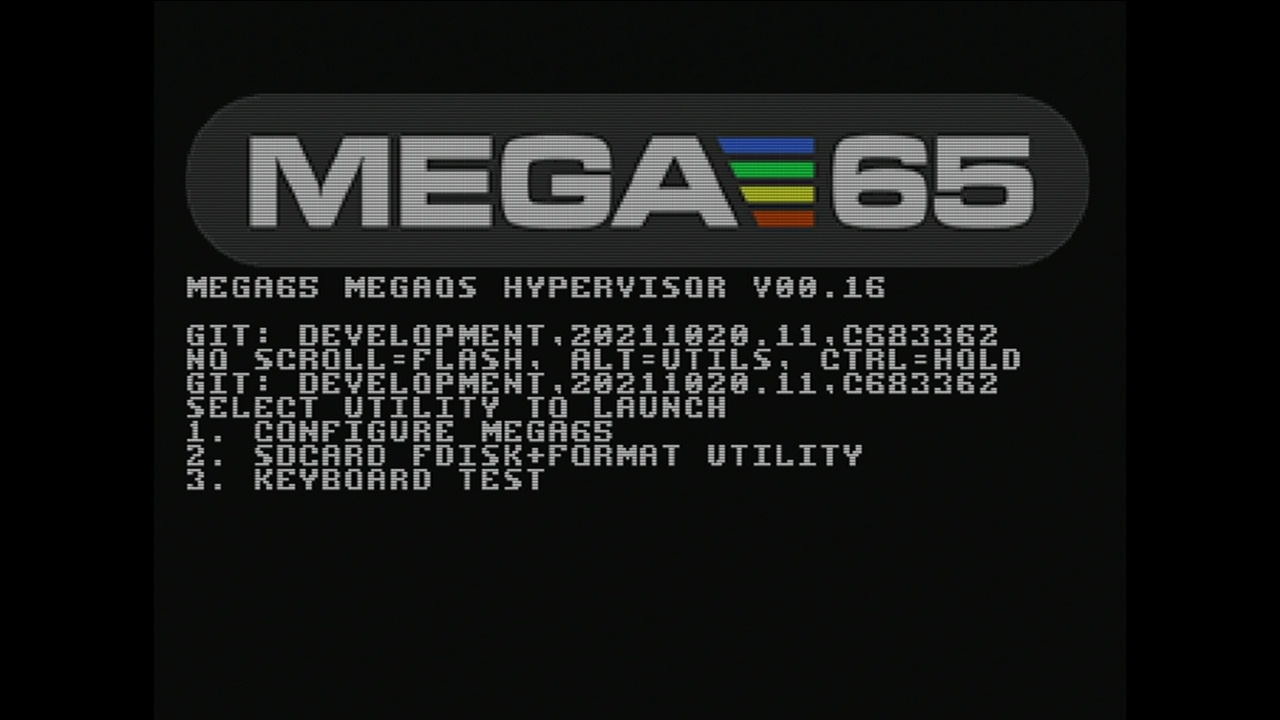
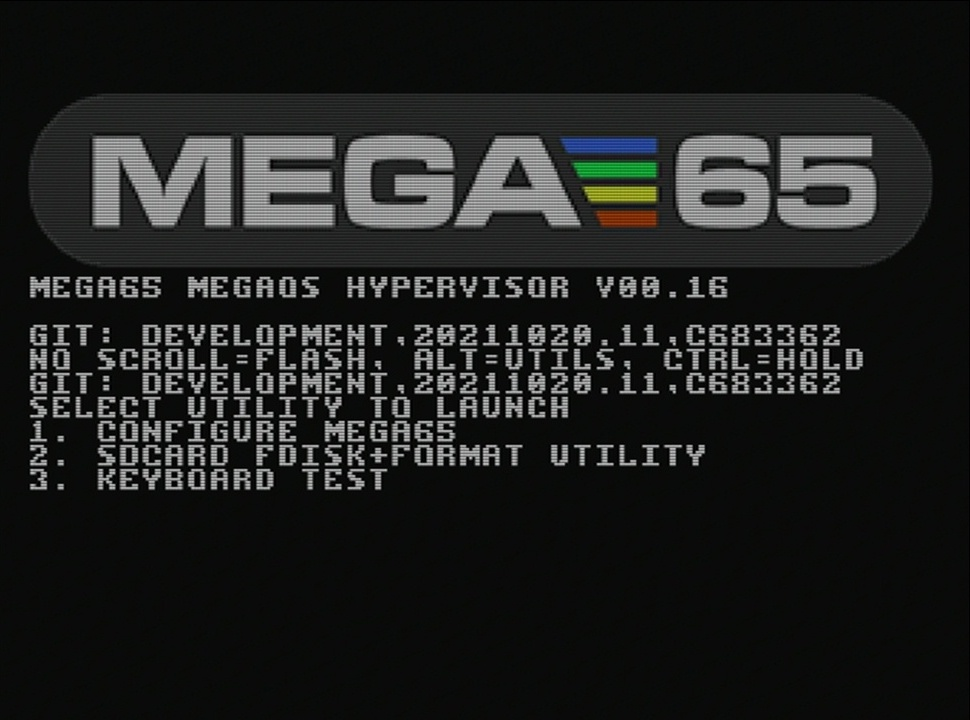
more images

Changed region(s): [[0.0309, 0.1222, 0.9588, 0.7028]]

diff --git a/_drafts/2021-10-24-mega65-nexys.md b/_drafts/2021-10-24-mega65-nexys.md
@@ -252,7 +252,7 @@ Use the steps below to boot the `MEGA65 Utility Menu` and format the micro SD ca
 3. Turn on the Nexys4.
 4. Release the ALT key when the Utility menu loads as shown below:
 
-    ![Utility Menu](https://www.stevencombs.com/images/mega65/utility-menu.png)
+    ![Utility Menu](https://www.stevencombs.com/images/mega65/utility-menu.jpg)
 
 5. Type `0` to select the micro SD card.
 6. Type `DELETE EVERYTHING` + `⏎` to verify the format option
@@ -269,7 +269,7 @@ Move to a computer and copy the required files using the steps below:
 2. Download the following files:
 
     * [SD Card Essentials](https://files.mega65.org?id=0fb941fe-5c5f-4608-b0f1-32849d4a8dff)
-    * [MEGA65 OPEN ROM](https://files.mega65.org?id=8aec2fba-3b0a-4677-80ae-7a7f5f4f0cb8) or [C65/MEGA65 Kernal ROM](https://files.mega65.org?id=54e69439-f25e-4124-8c78-22ea7ddc0f1c) (Requires Dev Kit or MEGA65 purchase.
+    * [MEGA65 OPEN ROM](https://files.mega65.org?id=8aec2fba-3b0a-4677-80ae-7a7f5f4f0cb8) or [C65-MEGA65 Kernal ROM](https://files.mega65.org?id=54e69439-f25e-4124-8c78-22ea7ddc0f1c) (Requires Dev Kit or MEGA65 purchase.
     * A `.D81` disk image. I recommend [BASIC.D81](https://files.mega65.org?id=7168bacc-a6bf-4a38-b205-3a0a209b6657) that contains all BASIC examples from the *MEGA65 BASIC 65 Command Reference*.
 
 3. Copy the bitstream downloaded earlier to the root directory of the microSD card.
